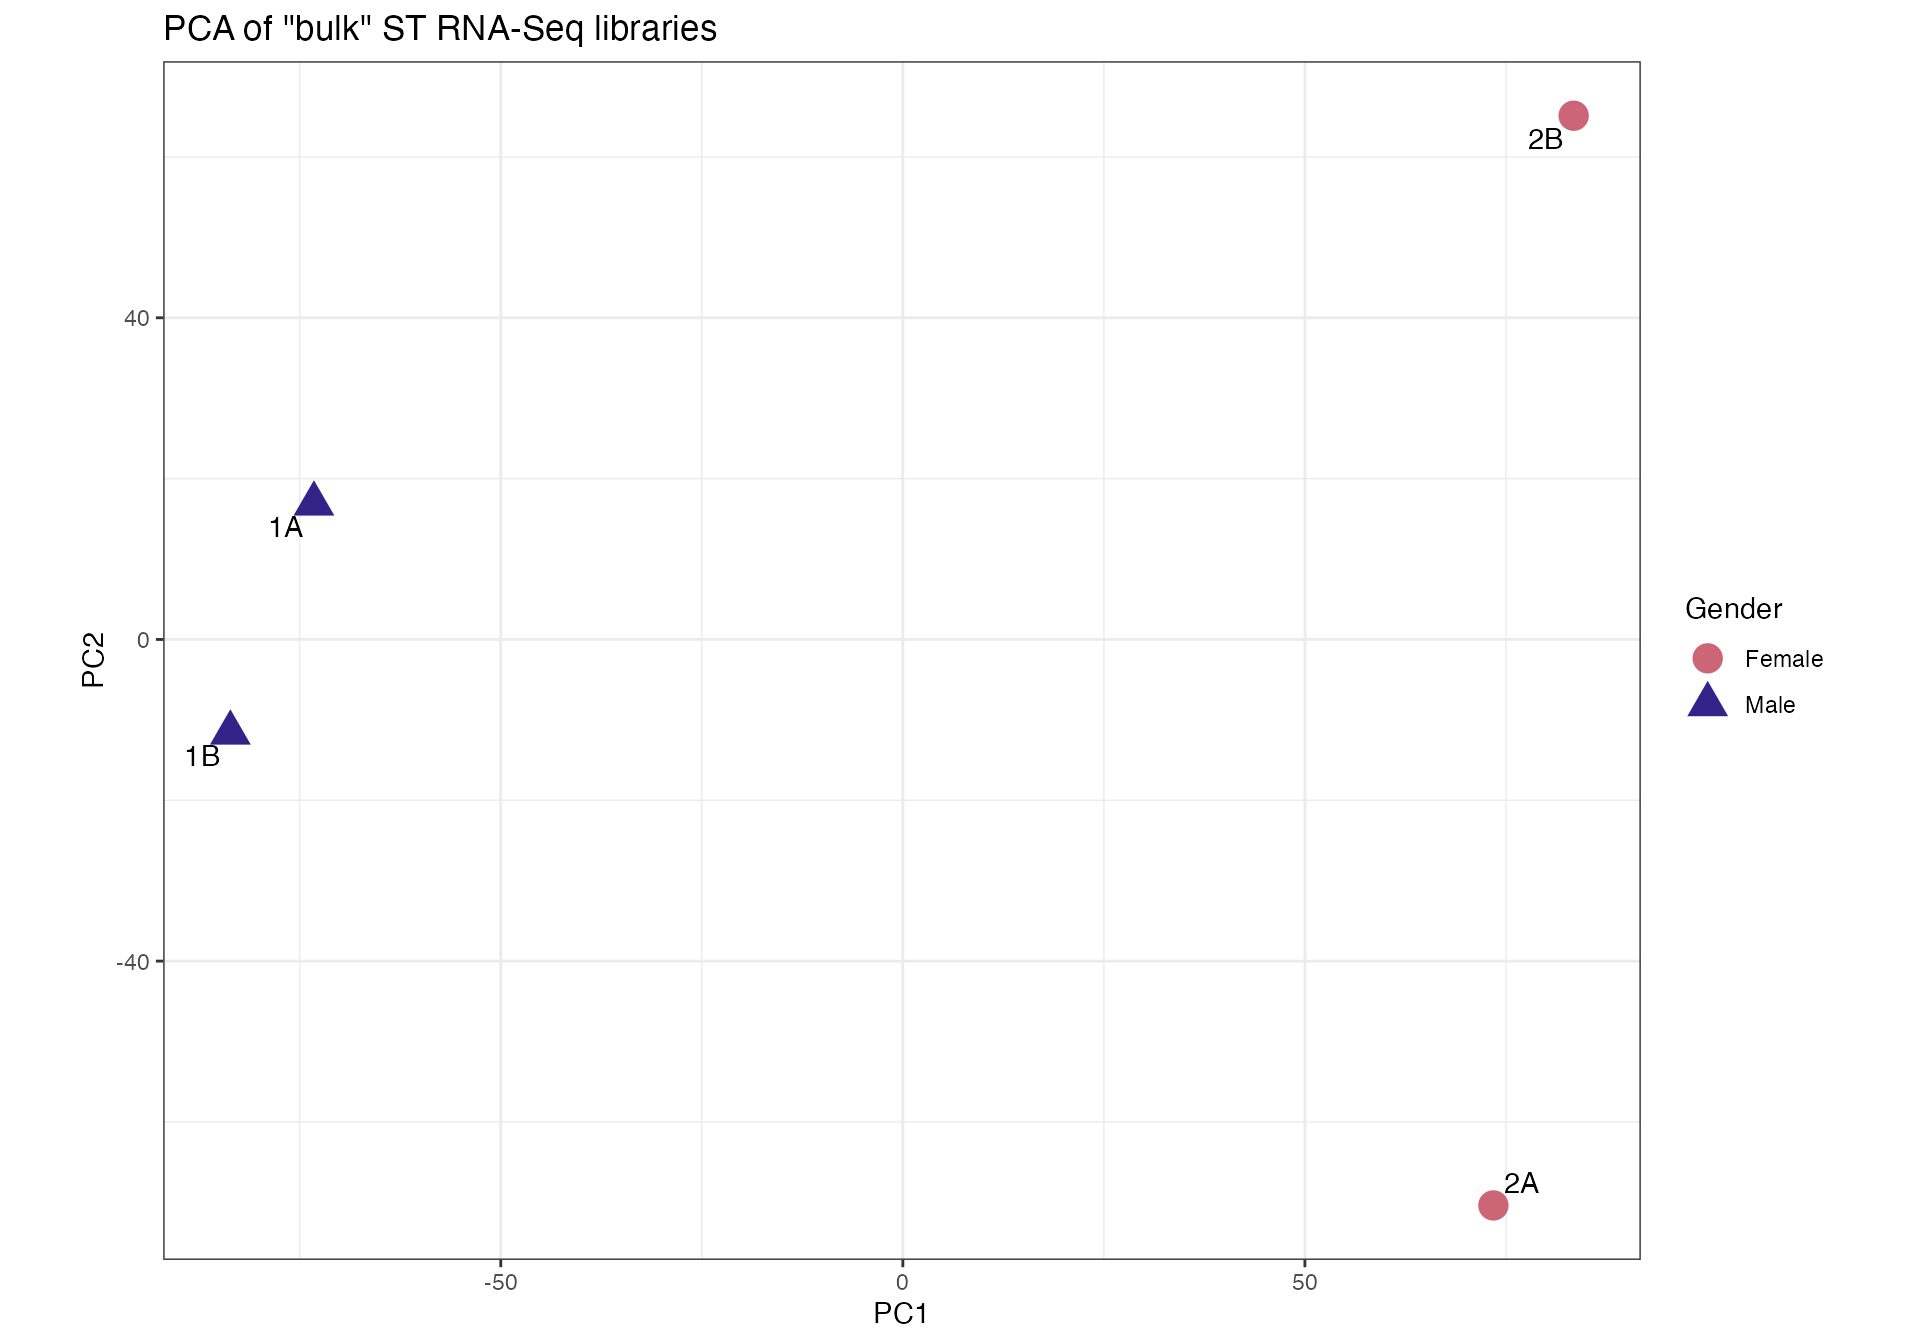
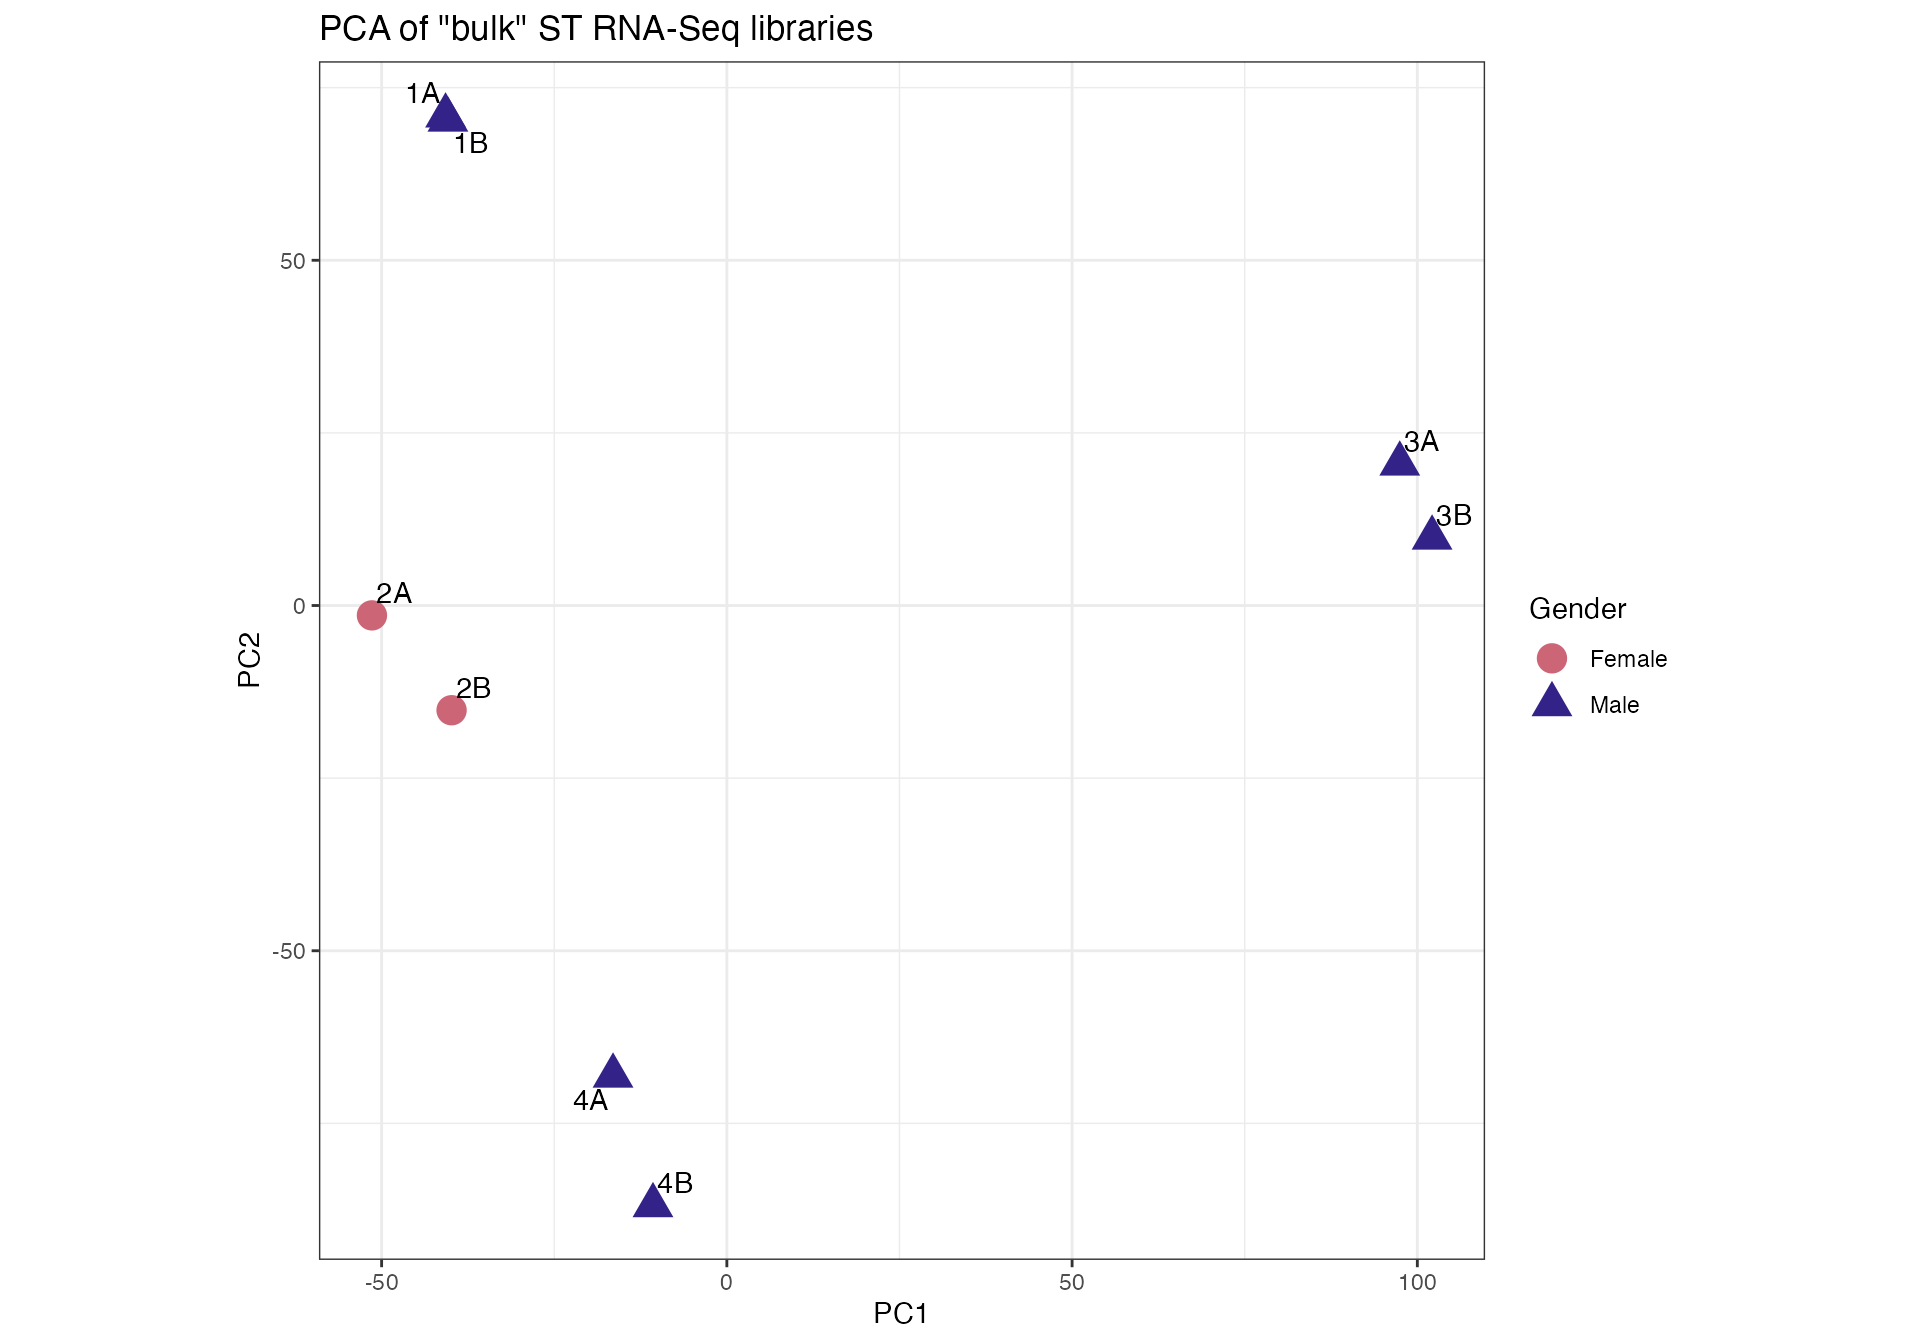
updated vignette

diff --git a/docs/articles/melanoma_ST_vignette.html b/docs/articles/melanoma_ST_vignette.html
@@ -133,13 +133,13 @@
 <div class="sourceCode" id="cb8"><pre class="downlit sourceCode r">
 <code class="sourceCode R"><span class="va">melanoma</span>
 <span class="co">#&gt; Spatial Transcriptomics List (STList)</span>
-<span class="co">#&gt; 4 spatial arrays.</span>
+<span class="co">#&gt; 8 spatial arrays.</span>
 <span class="co">#&gt; 6 variables in clinical data.</span></code></pre></div>
 </div>
 <div id="exploring-variation-between-spatial-arrays" class="section level2">
 <h2 class="hasAnchor">
 <a href="#exploring-variation-between-spatial-arrays" class="anchor"></a>Exploring variation between spatial arrays</h2>
-<p>The function <code>STbulk_pca()</code> allows for a quick snapshot of the variation in gene expression among samples. The function creates ‘bulk’ RNA-Seq data sets by combining all counts from a spatial array. Then, it applies limma-voom normalization to these ‘bulk’ RNA-Seq libraries and performs a PCA. Note that spatial (x,y) coordinate information is not included in this analysis, which is intended as a tool for data exploration. In this case, we apply the function to look for agreement between samples from the same patient: it is expected that tissue slices from the same patient are more similar between them, than slices from other patients. The <code>STbulk_pca()</code> allows to map a clinical variable to the PCA (gender in this example), by including the exact name of the column from the clinical/phenotype file.</p>
+<p>The function <code><a href="../reference/bulk_pca.html">bulk_pca()</a></code> allows for a quick snapshot of the variation in gene expression among samples. The function creates ‘bulk’ RNA-Seq data sets by combining all counts from a spatial array. Then, it applies limma-voom normalization to these ‘bulk’ RNA-Seq libraries and performs a PCA. Note that spatial (x,y) coordinate information is not included in this analysis, which is intended as a tool for data exploration. In this case, we apply the function to look for agreement between samples from the same patient: it is expected that tissue slices from the same patient are more similar between them, than slices from other patients. The <code><a href="../reference/bulk_pca.html">bulk_pca()</a></code> allows to map a clinical variable to the PCA (gender in this example), by including the exact name of the column from the clinical/phenotype file.</p>
 <div class="sourceCode" id="cb9"><pre class="downlit sourceCode r">
 <code class="sourceCode R"><span class="fu"><a href="../reference/bulk_pca.html">bulk_pca</a></span><span class="op">(</span><span class="va">melanoma</span>, clinvar<span class="op">=</span><span class="st">'Gender'</span><span class="op">)</span>
 <span class="co">#&gt; Loading required package: magrittr</span>
@@ -156,7 +156,11 @@
 <span class="co">#&gt; Normalizing spatial array #1...</span>
 <span class="co">#&gt; Normalizing spatial array #2...</span>
 <span class="co">#&gt; Normalizing spatial array #3...</span>
-<span class="co">#&gt; Normalizing spatial array #4...</span></code></pre></div>
+<span class="co">#&gt; Normalizing spatial array #4...</span>
+<span class="co">#&gt; Normalizing spatial array #5...</span>
+<span class="co">#&gt; Normalizing spatial array #6...</span>
+<span class="co">#&gt; Normalizing spatial array #7...</span>
+<span class="co">#&gt; Normalizing spatial array #8...</span></code></pre></div>
 </div>
 <div id="visualization-of-gene-expression-from-spatially-resolved-transcriptomics-data" class="section level2">
 <h2 class="hasAnchor">
@@ -247,6 +251,22 @@
 <span class="co">#&gt; [1] "Merged dataset includes 8708 genes (1704 mismatched)."</span>
 <span class="co">#&gt; [1] "1 gene set: StromalSignature  overlap= 133"</span>
 <span class="co">#&gt; [1] "2 gene set: ImmuneSignature  overlap= 137"</span>
+<span class="co">#&gt; Estimating 'purity' scores for spatial array #5...</span>
+<span class="co">#&gt; [1] "Merged dataset includes 8417 genes (1995 mismatched)."</span>
+<span class="co">#&gt; [1] "1 gene set: StromalSignature  overlap= 120"</span>
+<span class="co">#&gt; [1] "2 gene set: ImmuneSignature  overlap= 120"</span>
+<span class="co">#&gt; Estimating 'purity' scores for spatial array #6...</span>
+<span class="co">#&gt; [1] "Merged dataset includes 8492 genes (1920 mismatched)."</span>
+<span class="co">#&gt; [1] "1 gene set: StromalSignature  overlap= 122"</span>
+<span class="co">#&gt; [1] "2 gene set: ImmuneSignature  overlap= 129"</span>
+<span class="co">#&gt; Estimating 'purity' scores for spatial array #7...</span>
+<span class="co">#&gt; [1] "Merged dataset includes 8074 genes (2338 mismatched)."</span>
+<span class="co">#&gt; [1] "1 gene set: StromalSignature  overlap= 118"</span>
+<span class="co">#&gt; [1] "2 gene set: ImmuneSignature  overlap= 130"</span>
+<span class="co">#&gt; Estimating 'purity' scores for spatial array #8...</span>
+<span class="co">#&gt; [1] "Merged dataset includes 8580 genes (1832 mismatched)."</span>
+<span class="co">#&gt; [1] "1 gene set: StromalSignature  overlap= 128"</span>
+<span class="co">#&gt; [1] "2 gene set: ImmuneSignature  overlap= 138"</span>
 <span class="co">#&gt; Loading required package: xCell</span>
 <span class="co">#&gt; </span>
 <span class="co">#&gt; Applying xCell to spatial array #1...</span>
@@ -267,7 +287,31 @@
 <span class="co">#&gt; </span>
 <span class="co">#&gt; Applying xCell to spatial array #4...</span>
 <span class="co">#&gt; </span>
-<span class="co">#&gt; Calculating p-values for spatial array #4...</span></code></pre></div>
+<span class="co">#&gt; Calculating p-values for spatial array #4...</span>
+<span class="co">#&gt; </span>
+<span class="co">#&gt; Applying xCell to spatial array #5...</span>
+<span class="co">#&gt; Warning in .gsva(expr, mapped.gset.idx.list, method, kcdf, rnaseq,</span>
+<span class="co">#&gt; abs.ranking, : Some gene sets have size one. Consider setting 'min.sz &gt; 1'.</span>
+<span class="co">#&gt; </span>
+<span class="co">#&gt; Calculating p-values for spatial array #5...</span>
+<span class="co">#&gt; </span>
+<span class="co">#&gt; Applying xCell to spatial array #6...</span>
+<span class="co">#&gt; Warning in .gsva(expr, mapped.gset.idx.list, method, kcdf, rnaseq,</span>
+<span class="co">#&gt; abs.ranking, : Some gene sets have size one. Consider setting 'min.sz &gt; 1'.</span>
+<span class="co">#&gt; </span>
+<span class="co">#&gt; Calculating p-values for spatial array #6...</span>
+<span class="co">#&gt; </span>
+<span class="co">#&gt; Applying xCell to spatial array #7...</span>
+<span class="co">#&gt; Warning in .gsva(expr, mapped.gset.idx.list, method, kcdf, rnaseq,</span>
+<span class="co">#&gt; abs.ranking, : Some gene sets have size one. Consider setting 'min.sz &gt; 1'.</span>
+<span class="co">#&gt; </span>
+<span class="co">#&gt; Calculating p-values for spatial array #7...</span>
+<span class="co">#&gt; </span>
+<span class="co">#&gt; Applying xCell to spatial array #8...</span>
+<span class="co">#&gt; Warning in .gsva(expr, mapped.gset.idx.list, method, kcdf, rnaseq,</span>
+<span class="co">#&gt; abs.ranking, : Some gene sets have size one. Consider setting 'min.sz &gt; 1'.</span>
+<span class="co">#&gt; </span>
+<span class="co">#&gt; Calculating p-values for spatial array #8...</span></code></pre></div>
 <p>With the function <code><a href="../reference/plot_deconv_quilt.html">plot_deconv_quilt()</a></code>, we can visualize the cell type scores inferred by xCell. For example, B cells and dendritic cells.</p>
 <div class="sourceCode" id="cb16"><pre class="downlit sourceCode r">
 <code class="sourceCode R"><span class="va">quilts2</span> <span class="op">&lt;-</span> <span class="fu"><a href="../reference/plot_deconv_quilt.html">plot_deconv_quilt</a></span><span class="op">(</span><span class="va">melanoma</span>, cells<span class="op">=</span><span class="fu"><a href="https://rdrr.io/r/base/c.html">c</a></span><span class="op">(</span><span class="st">'b_cells'</span>, <span class="st">'i_dc'</span><span class="op">)</span>, 
@@ -334,7 +378,7 @@
 <code class="sourceCode R"><span class="va">pheno_p</span> <span class="op">&lt;-</span> <span class="fu"><a href="../reference/plot_phenovar.html">plot_phenovar</a></span><span class="op">(</span><span class="va">melanoma</span>, phenovar<span class="op">=</span><span class="st">'Survival'</span>, gene<span class="op">=</span><span class="st">'SPP1'</span><span class="op">)</span>
 
 <span class="fu">ggpubr</span><span class="fu">::</span><span class="fu"><a href="https://rpkgs.datanovia.com/ggpubr/reference/ggarrange.html">ggarrange</a></span><span class="op">(</span>plotlist<span class="op">=</span><span class="va">pheno_p</span>, nrow<span class="op">=</span><span class="fl">1</span>, ncol<span class="op">=</span><span class="fl">3</span>, common.legend<span class="op">=</span><span class="cn">T</span>, legend<span class="op">=</span><span class="st">'bottom'</span><span class="op">)</span></code></pre></div>
-<p><img src="melanoma_ST_vignette_files/figure-html/unnamed-chunk-1-1.png" width="576"></p>
+<p><img src="melanoma_ST_vignette_files/figure-html/clinplot_chunk-1.png" width="768"></p>
 <p>In the case of the phosphoprotein SPP1 gene, samples with a more uniform expression came from subjects with a higher survival time (low Moran’s I; high Geary’s C). A tendency for fewer “hotspots” of high expression was also observed in those samples (lower Getis-Ord Gi compared to other samples).</p>
 </div>
 <div id="summary" class="section level2">
